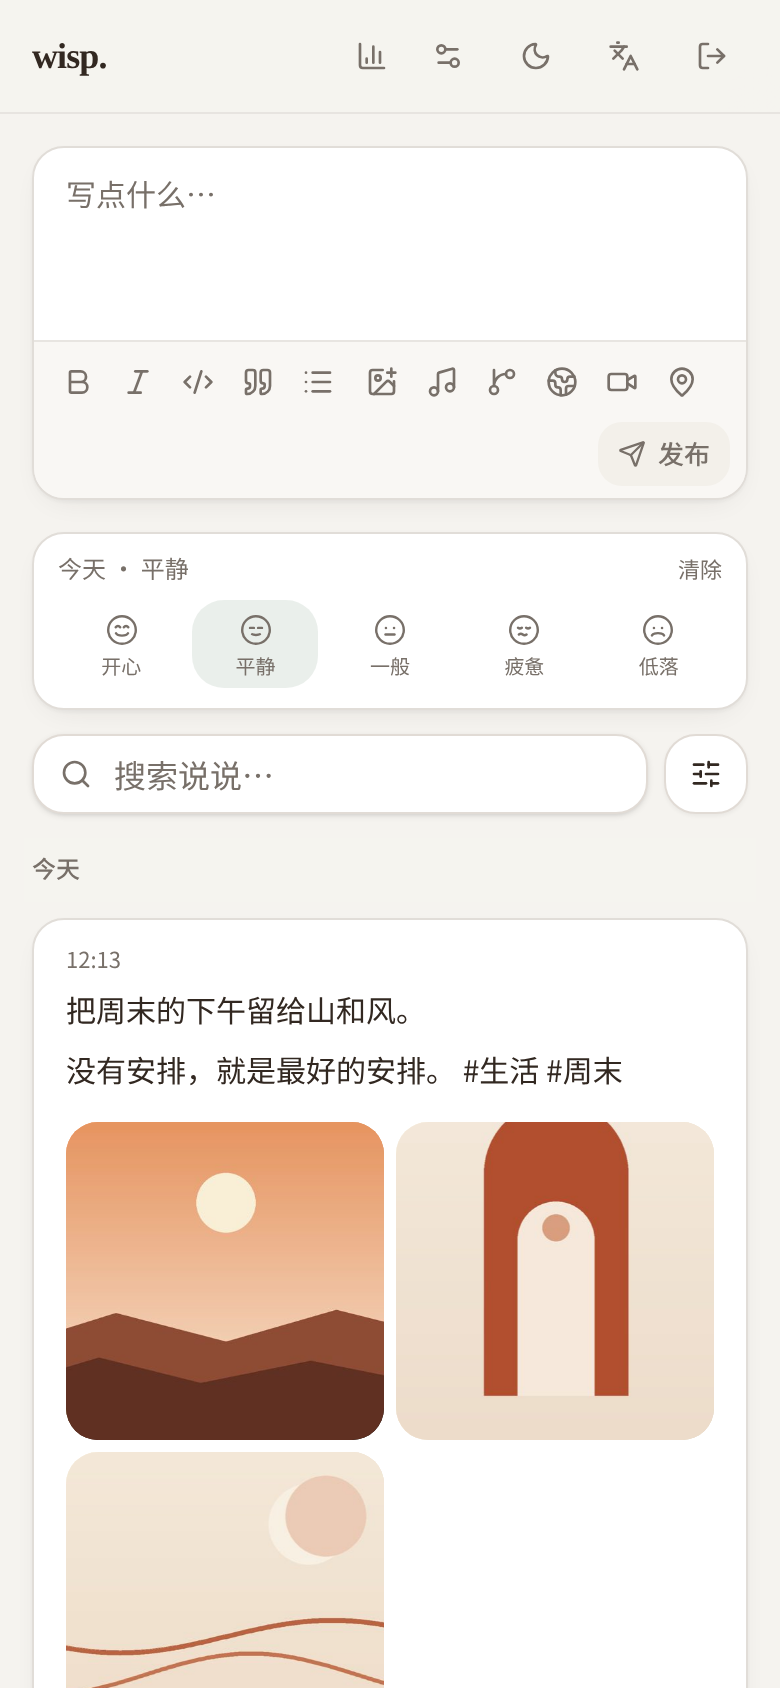
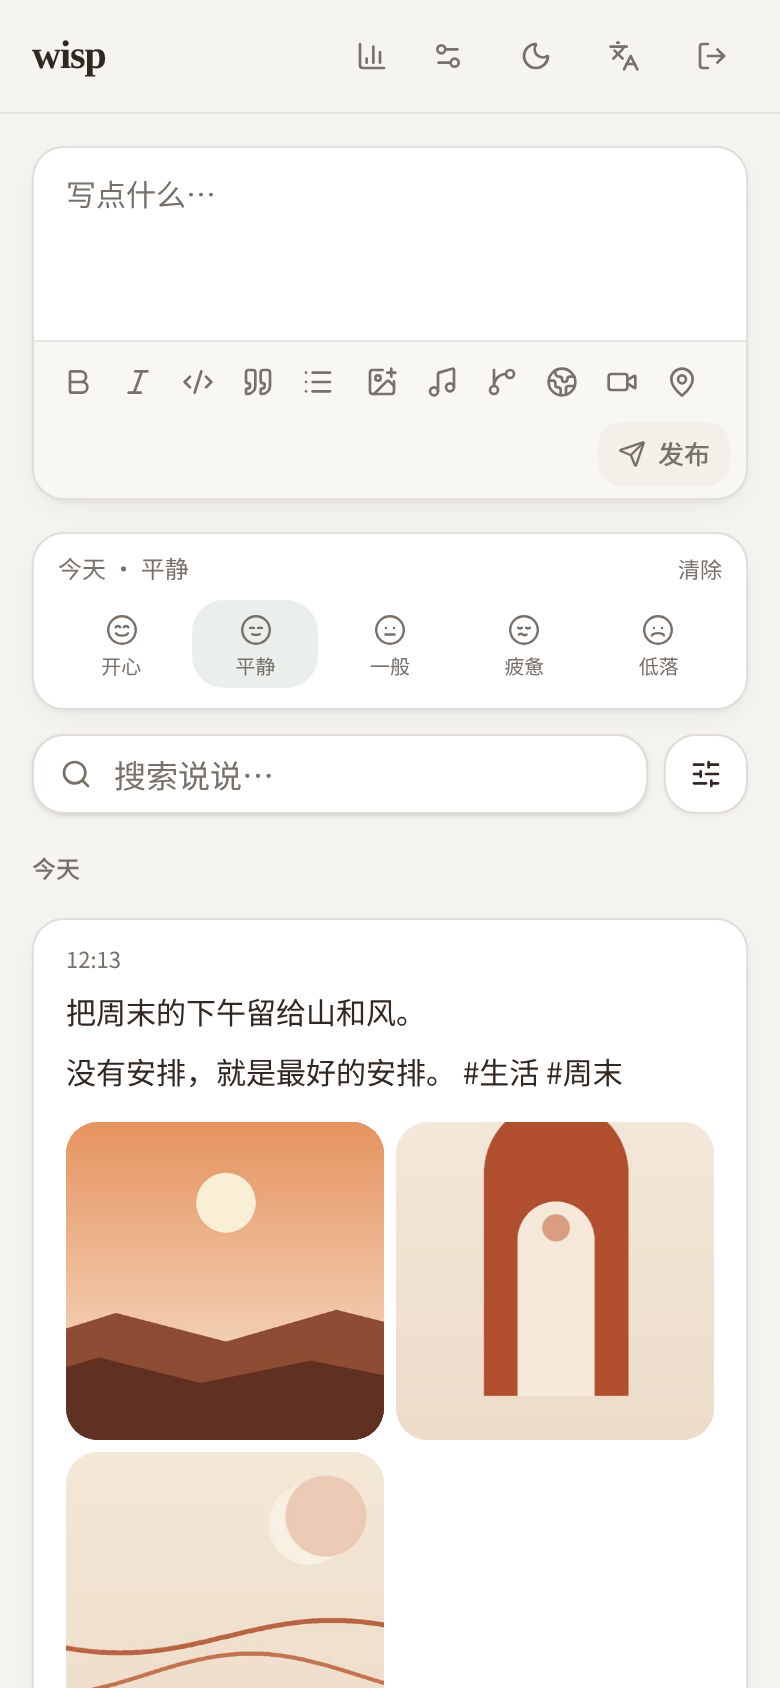
feat(brand): simplify header wordmark

Changed region(s): [[0.0923, 0.5853, 0.5538, 0.6469], [0.5846, 0.6161, 0.8, 0.6469], [0.0615, 0.0308, 0.1538, 0.0616]]

diff --git a/web/src/components/header.tsx b/web/src/components/header.tsx
@@ -31,7 +31,7 @@ export function Header() {
           title="Wisp"
           className="mr-1 flex items-center rounded-lg py-1"
         >
-          <span className="font-display text-[18px] font-semibold tracking-tight">wisp.</span>
+          <span className="font-display text-[20px] font-semibold tracking-tight">wisp</span>
         </Link>
 
         <nav className="ml-auto flex items-center gap-0.5">
